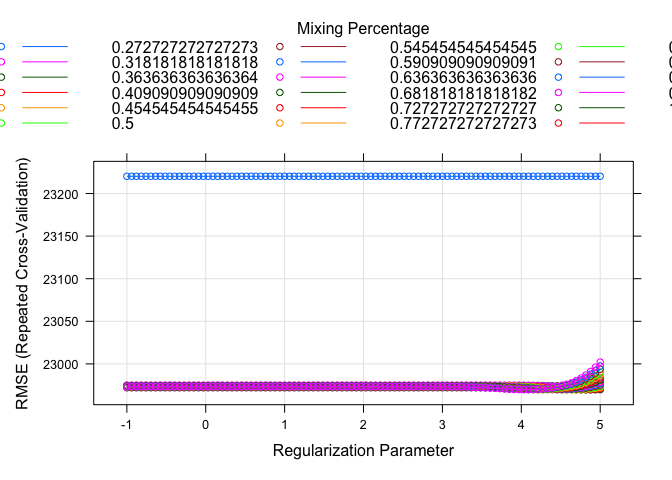
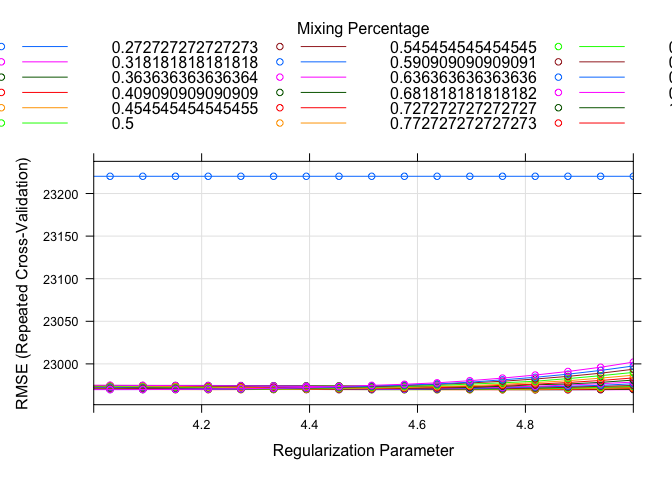
text format

diff --git a/ds2_hw1.md b/ds2_hw1.md
@@ -214,16 +214,17 @@ RMSE(lm_predict, test_df$sale_price)
 
     ## [1] 21149.18
 
-**Potential Disadvantage:**  
-\* The model contains too many predictors, which is hard for
-interpretation.  
-\* As seen above, there are correlations among predictors, which may
-lead to: 1. higher variance and RMSE 2. less prediction accuracy 3.
-difficulty for interpretation  
-\* Due to the nature of its modeling method, Least Squares is sensitive
-to outliers.  
-\* Large data set is necessary in order to obtain reliable results. Our
-sample in this case might not be large enough.
+**Potential disadvantage**
+
+1.  The model contains too many predictors, which is hard for
+    interpretation.  
+2.  As seen above, there are correlations among predictors, which may
+    lead to: 1. higher variance and RMSE 2. less prediction accuracy 3.
+    difficulty for interpretation  
+3.  Due to the nature of its modeling method, Least Squares is sensitive
+    to outliers.  
+4.  Large data set is necessary in order to obtain reliable results. Our
+    sample in this case might not be large enough.
 
 ## Lasso
 
@@ -328,7 +329,9 @@ RMSE(lasso_predict, test_df$sale_price)
 
     ## [1] 20806.29
 
--   The test RMSE is 2.080629^{4}.  
+**Test error and number of predictors**
+
+-   The test RMSE is 2.0806292^{4}.  
 -   When the 1SE rule is applied, there are 37 predictors included in
     the model.
 
@@ -359,12 +362,32 @@ enet_fit$bestTune
     ## 899 0.3636364 139.6856
 
 ``` r
-plot(enet_fit, xTrans = log)
+# Plot RMSE against lambda
+plot(enet_fit, xTrans = log, xlim = c(4, 5))
 ```
 
 ![](ds2_hw1_files/figure-gfm/unnamed-chunk-10-1.png)<!-- -->
 
--   From the fitted elastic net model, we can see that the optimum
-    lambda chosen is 139.685566
+-   From the fitted elastic net model, we can see that the optimum alpha
+    chosen is 0.3636364, and the optimum lambda chosen is 139.685566.  
+-   Since the optimum alpha is much closer to 0 than 1, we can say that
+    the optimum elastic net model behaves closer to ridge than lasso.
 
 ### Make prediction
+
+``` r
+set.seed(2570)
+
+# Make prediction on test data
+enet_predict <- predict(enet_fit, newdata = test_all)
+
+# Calculate test RMSE
+RMSE(enet_predict, test_df$sale_price)
+```
+
+    ## [1] 20987.92
+
+**Selected tuning parameters and test error**
+
+-   The selected tuning parameter lambda is 139.685566.  
+-   The test RMSE is 2.0987919^{4}.
